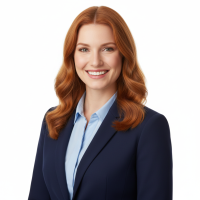
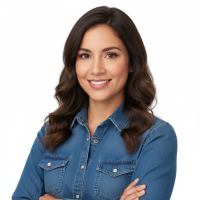
fix: organizar fotos da mulher (rename + remover duplicata)
- Remove mulher30-39.png antigo (era duplicata da ruiva 40-49)
- Renomeia secao30-39.png para mulher30-39.png (a foto correta de
  morena com camisa jeans, alinhada com o screenshot original)
- Atualiza HTML para usar mulher30-39.png na faixa 30-39

Resultado: 4 fotos distintas para 4 idades (18-29 loira, 30-39
morena denim, 40-49 ruiva blazer, 50+ grisalha).

https://claude.ai/code/session_016fQdhcm9o5ojGygApTLYgD

diff --git a/index.html b/index.html
@@ -80,7 +80,7 @@
 
                 <button class="card-option" data-value="30-39" data-next="3">
                     <div class="card-image">
-                        <img src="assets/secao30-39.png" alt="30 a 39 anos">
+                        <img src="assets/mulher30-39.png" alt="30 a 39 anos">
                     </div>
                     <div class="card-label">
                         <span>30-39</span>